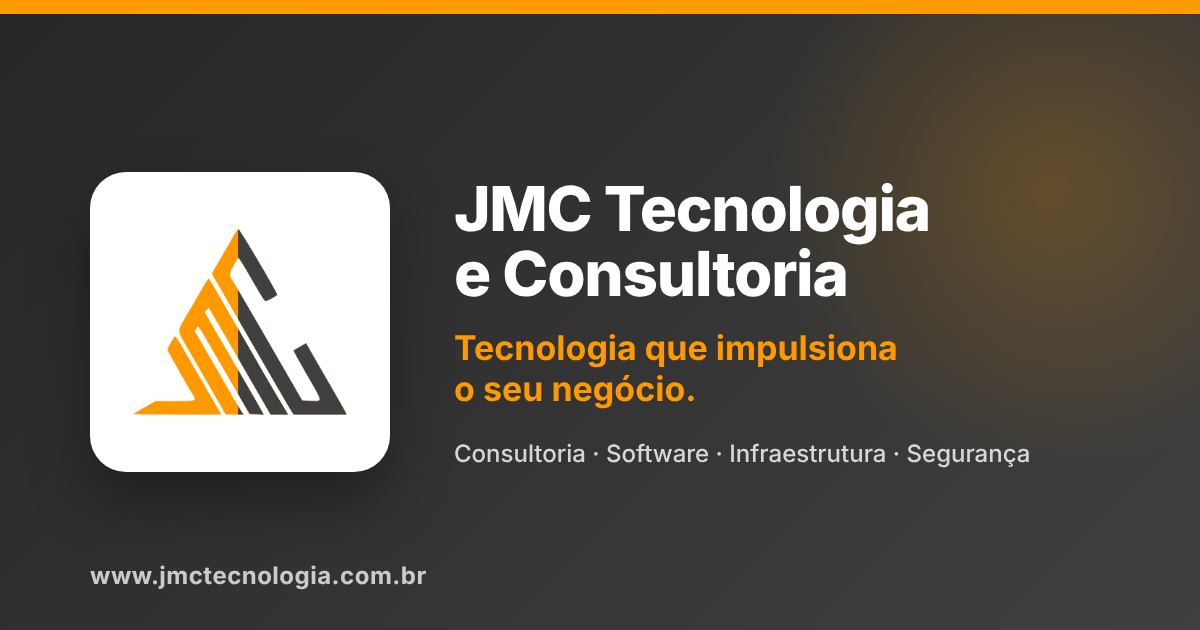
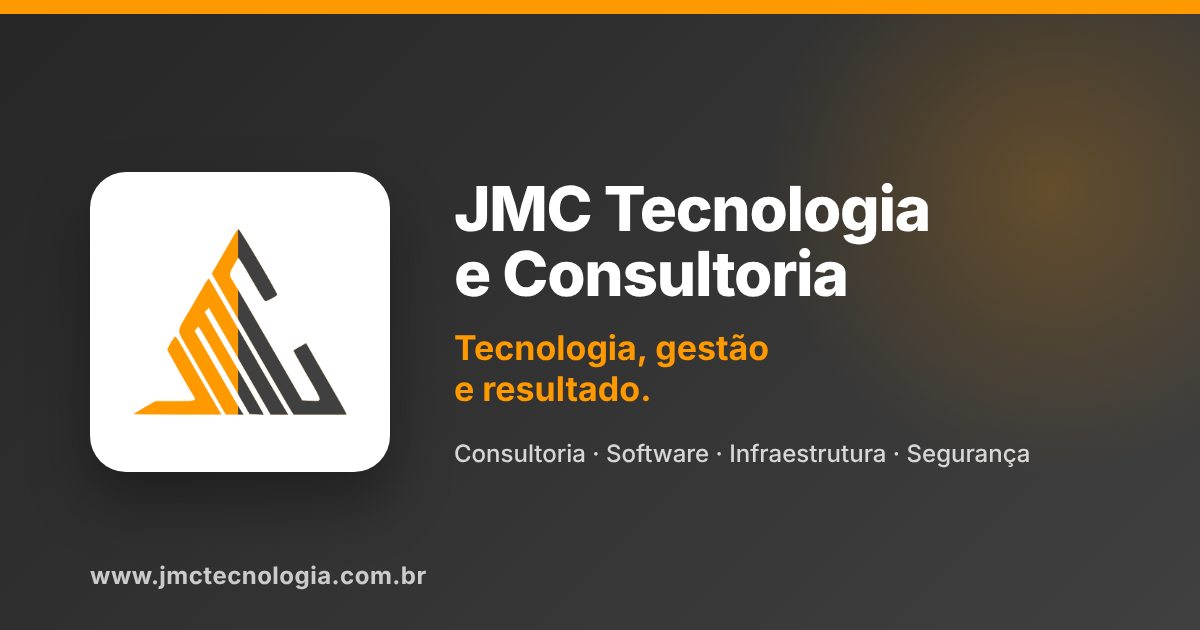
Troca o slogan para "Tecnologia, gestão e resultado."
Atualiza o título da página inicial, as descrições para redes sociais e
a imagem de compartilhamento.

Claude-Session: https://claude.ai/code/session_01JoraRp5yYtREWtwF9j2ZoX

Changed region(s): [[0.37, 0.5127, 0.7708, 0.6635]]

diff --git a/index.html b/index.html
@@ -6,13 +6,13 @@
   <title>JMC Tecnologia e Consultoria</title>
   <meta name="description" content="JMC Tecnologia e Consultoria: soluções em tecnologia, desenvolvimento de software, infraestrutura e consultoria para empresas.">
   <meta property="og:title" content="JMC Tecnologia e Consultoria">
-  <meta property="og:description" content="Tecnologia que impulsiona o seu negócio.">
+  <meta property="og:description" content="Tecnologia, gestão e resultado.">
   <meta property="og:url" content="https://www.jmctecnologia.com.br/">
   <meta property="og:type" content="website">
   <meta property="og:image" content="https://www.jmctecnologia.com.br/assets/img/compartilhar.png">
   <meta property="og:image:width" content="1200">
   <meta property="og:image:height" content="630">
-  <meta property="og:image:alt" content="JMC Tecnologia e Consultoria: tecnologia que impulsiona o seu negócio.">
+  <meta property="og:image:alt" content="JMC Tecnologia e Consultoria: tecnologia, gestão e resultado.">
   <meta property="og:locale" content="pt_BR">
   <meta property="og:site_name" content="JMC Tecnologia e Consultoria">
   <meta name="twitter:card" content="summary_large_image">
@@ -49,7 +49,7 @@
       <div class="container hero-grid">
         <div>
           <p class="eyebrow">Tecnologia e consultoria para empresas</p>
-          <h1>Tecnologia que impulsiona o seu negócio.</h1>
+          <h1>Tecnologia, gestão e resultado.</h1>
           <p class="lead">Ajudamos empresas a planejar, construir e manter soluções digitais seguras e eficientes, do diagnóstico à operação.</p>
           <div class="hero-actions">
             <a href="#contato" class="btn">Solicite um diagnóstico</a>

diff --git a/area-do-cliente.html b/area-do-cliente.html
@@ -6,13 +6,13 @@
   <title>Área do cliente | JMC Tecnologia e Consultoria</title>
   <meta name="description" content="Área do cliente da JMC Tecnologia e Consultoria: login de clientes com Google ou Microsoft e canais de suporte.">
   <meta property="og:title" content="Área do cliente | JMC Tecnologia e Consultoria">
-  <meta property="og:description" content="Tecnologia que impulsiona o seu negócio.">
+  <meta property="og:description" content="Tecnologia, gestão e resultado.">
   <meta property="og:url" content="https://www.jmctecnologia.com.br/area-do-cliente.html">
   <meta property="og:type" content="website">
   <meta property="og:image" content="https://www.jmctecnologia.com.br/assets/img/compartilhar.png">
   <meta property="og:image:width" content="1200">
   <meta property="og:image:height" content="630">
-  <meta property="og:image:alt" content="JMC Tecnologia e Consultoria: tecnologia que impulsiona o seu negócio.">
+  <meta property="og:image:alt" content="JMC Tecnologia e Consultoria: tecnologia, gestão e resultado.">
   <meta property="og:locale" content="pt_BR">
   <meta property="og:site_name" content="JMC Tecnologia e Consultoria">
   <meta name="twitter:card" content="summary_large_image">

diff --git a/blog.html b/blog.html
@@ -6,13 +6,13 @@
   <title>Blog | JMC Tecnologia e Consultoria</title>
   <meta name="description" content="Artigos e novidades da JMC Tecnologia e Consultoria sobre tecnologia para empresas.">
   <meta property="og:title" content="Blog | JMC Tecnologia e Consultoria">
-  <meta property="og:description" content="Tecnologia que impulsiona o seu negócio.">
+  <meta property="og:description" content="Tecnologia, gestão e resultado.">
   <meta property="og:url" content="https://www.jmctecnologia.com.br/blog.html">
   <meta property="og:type" content="website">
   <meta property="og:image" content="https://www.jmctecnologia.com.br/assets/img/compartilhar.png">
   <meta property="og:image:width" content="1200">
   <meta property="og:image:height" content="630">
-  <meta property="og:image:alt" content="JMC Tecnologia e Consultoria: tecnologia que impulsiona o seu negócio.">
+  <meta property="og:image:alt" content="JMC Tecnologia e Consultoria: tecnologia, gestão e resultado.">
   <meta property="og:locale" content="pt_BR">
   <meta property="og:site_name" content="JMC Tecnologia e Consultoria">
   <meta name="twitter:card" content="summary_large_image">
